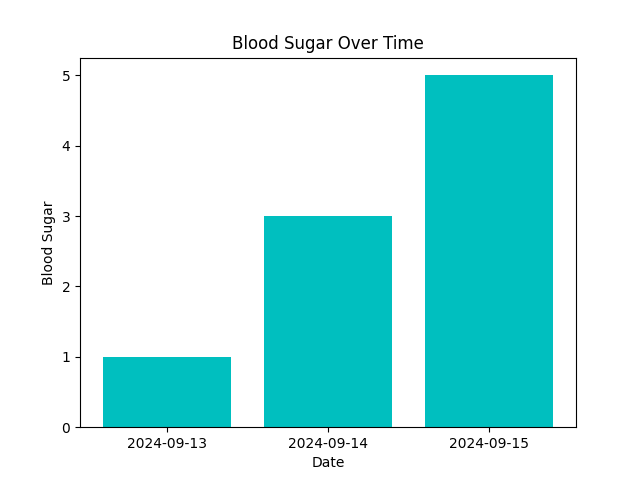
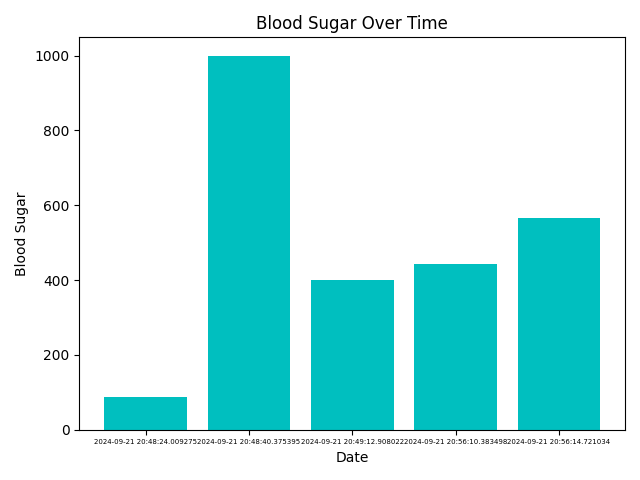
Updated select query for charts

diff --git a/INF2003_DB_Proj/templates/user_dashboard.html b/INF2003_DB_Proj/templates/user_dashboard.html
@@ -45,10 +45,16 @@
       
     </div>
 
+    {% if showchart %}
     <div class="charts-container">
-      <img src="{{ url_for('static', filename='images/bpchart.png') }}" alt="Bar Chart 1" class="chart-img">
-      <img src="{{ url_for('static', filename='images/bschart.png') }}" alt="Bar Chart 2" class="chart-img">
+        <img src="{{ url_for('static', filename='images/bpchart.png') }}" alt="Bar Chart 1" class="chart-img">
+        <img src="{{ url_for('static', filename='images/bschart.png') }}" alt="Bar Chart 2" class="chart-img">
     </div>
+    {% else %}
+    <div class="charts-container">
+        <p>No data available</p>
+    </div>
+    {% endif %}
 </div>
 
   

diff --git a/INF2003_DB_Proj/app.py b/INF2003_DB_Proj/app.py
@@ -99,25 +99,47 @@ def login():
 @app.route('/user_dashboard')
 def user_dashboard():
     if 'username' in session and session['user_role'] == 'user':
-        # Sample data, simulate that u fetch from db already
-        date = ["2024-09-13", "2024-09-14", "2024-09-15"]
-        bp = [2, 4, 6]
-        bs = [1, 3, 5]
+        conn = get_db_connection()
+        cursor = conn.cursor()
+        user_id = session['user_id']
+        try:
+            # Fetch distinct medication types from the Medications table
+            cursor.execute('SELECT blood_pressure, blood_sugar, date_log FROM user_health WHERE user_id = ?;', (user_id,))
+            rows = cursor.fetchall()
+            if rows:
+                bp = [float(row['blood_pressure']) for row in rows]
+                bs = [float(row['blood_sugar'])for row in rows]
+                date = [row['date_log'] for row in rows]
+                # Create the bar chart
+                plt.bar(date, bp, color='#00bfbf')
+                plt.xlabel('Date')
+                plt.ylabel('Blood Pressure')
+                plt.title('Blood Pressure Over Time')
+                plt.xticks(fontsize=5)  
+                plt.tight_layout()
+                plt.savefig('static/images/bpchart.png')  # Save to a static folder within your Flask project
+                plt.close()
+                plt.bar(date, bs, color='#00bfbf')
+                plt.xlabel('Date')
+                plt.ylabel('Blood Sugar')
+                plt.title('Blood Sugar Over Time')
+                plt.xticks(fontsize=5)  
+                plt.tight_layout()
+                plt.savefig('static/images/bschart.png')  # Save to a static folder within your Flask project
+                plt.close()
+                showchart = True
+            else:
+                showchart = False
 
-        # Create the bar chart
-        plt.bar(date, bp, color='#00bfbf')
-        plt.xlabel('Date')
-        plt.ylabel('Blood Pressure')
-        plt.title('Blood Pressure Over Time')
-        plt.savefig('static/images/bpchart.png')  # Save to a static folder within your Flask project
-        plt.close()
-        plt.bar(date, bs, color='#00bfbf')
-        plt.xlabel('Date')
-        plt.ylabel('Blood Sugar')
-        plt.title('Blood Sugar Over Time')
-        plt.savefig('static/images/bschart.png')  # Save to a static folder within your Flask project
-        plt.close()
-        return render_template('user_dashboard.html', username=session['username'])
+            return render_template('user_dashboard.html', username=session['username'], showchart=showchart)
+
+
+        except sqlite3.Error as e:
+            flash(f"Error loading dashboard: {e}", 'danger')
+            return redirect(url_for('home'))
+
+        finally:
+            conn.close()
 
     # return render_template('user_dashboard.html', username="test")
     return redirect(url_for('home'))
